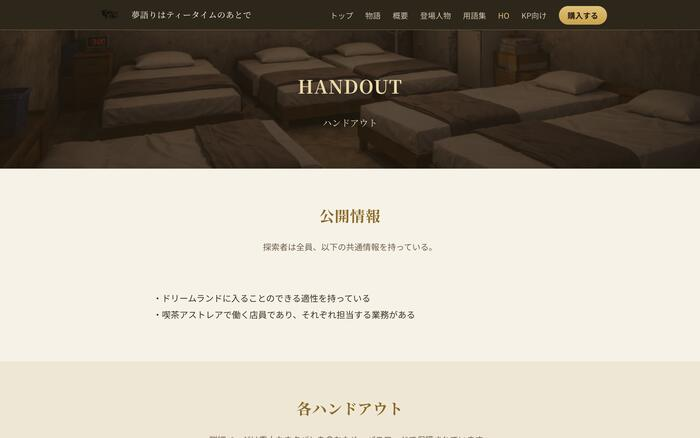
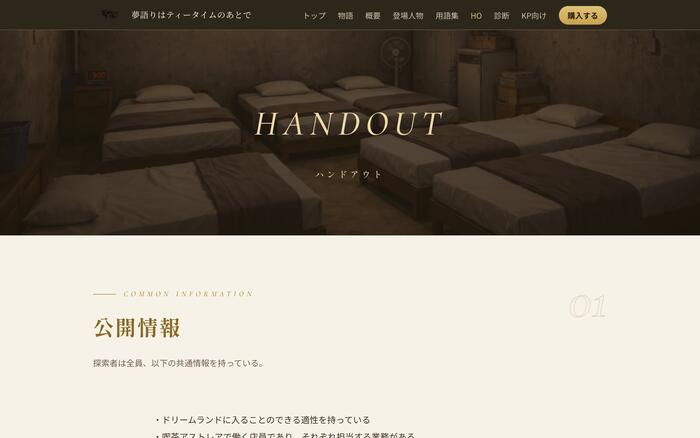
公式サイトのスクリーンショットを刷新デザイン版に更新(診断ページ追加に伴い本文も調整)

diff --git a/src/data/works.ts b/src/data/works.ts
@@ -242,7 +242,7 @@ export const works: Work[] = [
       {
         title: "公式サイト ― シナリオの入口をWebで設計する",
         body: [
-          "2026年7月には、シナリオの「入口」となる公式サイトを公開しました。あらすじ・概要・登場人物・用語集からKP向け情報まで全10ページで、遊ぶ前のプレイヤーが安心して読める範囲だけを載せています。",
+          "2026年7月には、シナリオの「入口」となる公式サイトを公開しました。あらすじ・概要・登場人物・用語集・HO診断からKP向け情報までを1つのサイトにまとめ、遊ぶ前のプレイヤーが安心して読める範囲だけを載せています。",
           "秘匿ハンドアウト4本は、静的サイトのままAES-256で暗号化したパスワード保護ページとして実装。KPが担当プレイヤーにだけ鍵を渡す——というTRPGの秘匿配布の運用を、サーバーなしのGitHub Pages上で成立させています。"
         ]
       }
